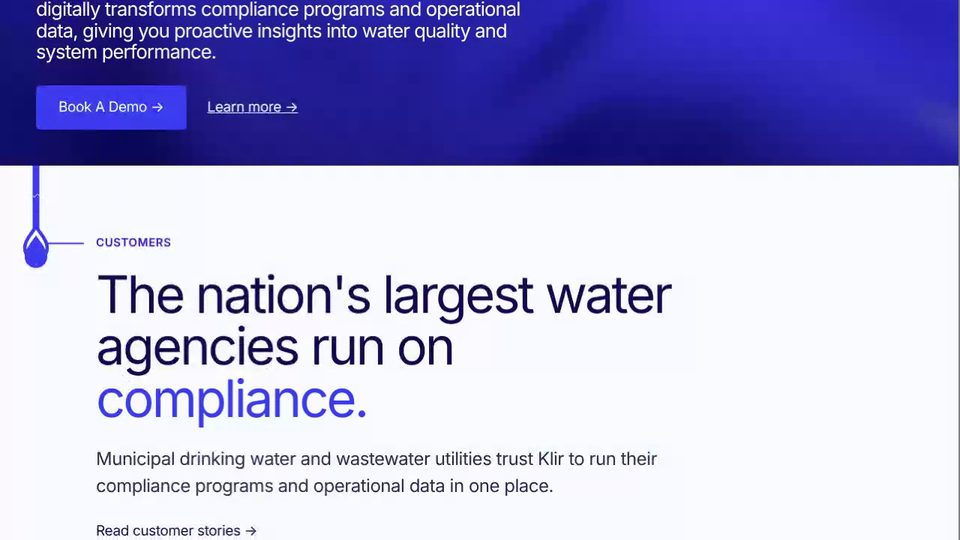
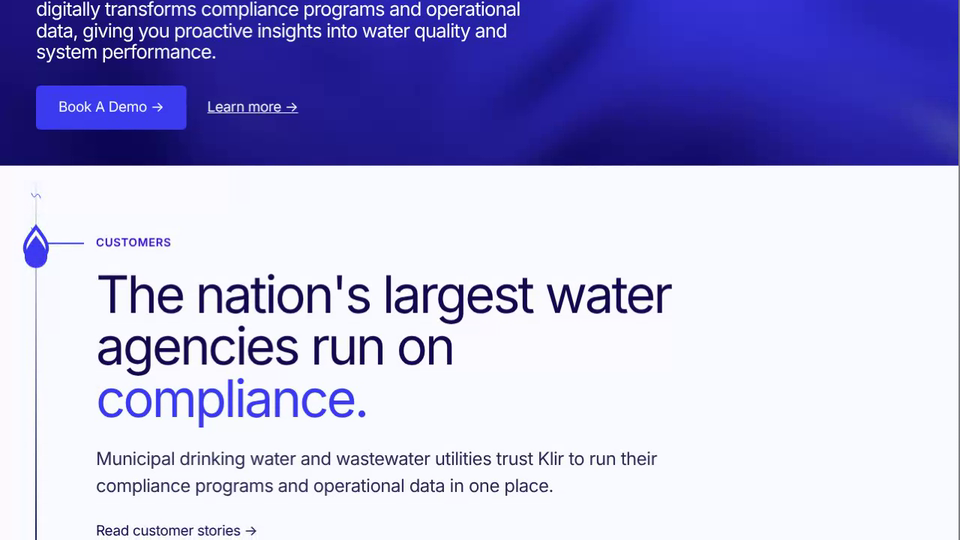
Klir Wayfinding: thin gradient wayfinding line with faded edges
Claude-Session: https://claude.ai/code/session_01AHeBdxxJMjuAF9w67sWwW5

Changed region(s): [[0.0312, 0.2963, 0.0625, 0.4444], [0.0625, 0.1778, 0.1562, 0.2074]]

diff --git a/klir-wayfinding/index.html b/klir-wayfinding/index.html
@@ -111,12 +111,14 @@ ul.ticks svg{flex:none;width:22px;height:22px;stroke:var(--indigo);fill:none;str
 <svg id="path" aria-hidden="true">
   <defs>
     <path id="drop" d="M0-15C6-7 10-2 10 4a10 10 0 0 1-20 0C-10-2-6-7 0-15Z"/>
-    <path id="curve" d="M-6-3Q-3 5 0 0T6 3" fill="none" stroke="#fff" stroke-width="1" stroke-linecap="round"/>
+    <path id="curve" d="M-6-3Q-3 5 0 0T6 3" fill="none" stroke="#3b3bef" stroke-width="1" stroke-linecap="round"/>
+    <linearGradient id="fade" gradientUnits="userSpaceOnUse" x1="0" x2="0"><stop offset="0" stop-color="#0f1f6b" stop-opacity="0"/><stop offset=".08" stop-color="#14237a"/><stop offset=".55" stop-color="#3b3bef"/><stop offset=".92" stop-color="#3b3bef" stop-opacity=".9"/><stop offset="1" stop-color="#3b3bef" stop-opacity="0"/></linearGradient>
     <clipPath id="clip"><rect id="clipR" x="0" y="0" width="40" height="0"/></clipPath>
     <clipPath id="cw"><rect id="cwR" x="0" y="0" width="200" height="0"/></clipPath>
     <clipPath id="cb"><rect id="cbR" x="0" y="0" width="200" height="0"/></clipPath>
   </defs>
-  <g clip-path="url(#clip)"><line id="solid" stroke="#3b3bef" stroke-width="9" stroke-linecap="round"/><g id="marks"></g></g>
+  <line id="solid" stroke="url(#fade)" stroke-width="2"/>
+  <g clip-path="url(#clip)"><g id="marks"></g></g>
   <g id="nodes"></g>
   <g id="head" opacity="0"><g clip-path="url(#cw)"><use id="dw" href="#drop" fill="#fff"/></g><g clip-path="url(#cb)"><use id="db" href="#drop" fill="#3b3bef"/></g></g>
 </svg>
@@ -176,7 +178,7 @@ function layout(){
   const m=wrap.getBoundingClientRect();H=wrap.offsetHeight;HB=document.querySelector('.hero').offsetHeight;
   X=parseFloat(getComputedStyle(document.documentElement).getPropertyValue('--gx'))||48;
   svg.setAttribute('height',H);
-  $('solid').setAttribute('x1',X);$('solid').setAttribute('x2',X);$('solid').setAttribute('y1',HB);
+  $('solid').setAttribute('x1',X);$('solid').setAttribute('x2',X);$('solid').setAttribute('y1',HB);$('solid').setAttribute('y2',H);const fg=$('fade');fg.setAttribute('y1',HB);fg.setAttribute('y2',H);
   $('marks').innerHTML='';for(let y=HB+40;y<H;y+=46){const u=document.createElementNS(NS,'use');u.setAttribute('href','#curve');u.setAttribute('transform',`translate(${X} ${y})`);$('marks').appendChild(u)}
   $('clipR').setAttribute('x',X-20);$('cwR').setAttribute('height',HB);$('cbR').setAttribute('y',HB);$('cbR').setAttribute('height',H-HB);
   nodes=[...document.querySelectorAll('.eyebrow.node')].map(e=>{const r=e.getBoundingClientRect();return{y:r.top-m.top+r.height/2}});
@@ -185,7 +187,7 @@ function layout(){
 }
 function tick(){
   const top=wrap.getBoundingClientRect().top,y=Math.max(HB*.35,Math.min(H-30,innerHeight*.5-top));
-  $('solid').setAttribute('y2',Math.max(HB,y));$('clipR').setAttribute('y',HB);$('clipR').setAttribute('height',Math.max(0,y-HB));
+  $('clipR').setAttribute('y',HB);$('clipR').setAttribute('height',Math.max(0,y-HB));
   const t=`translate(${X} ${y}) scale(1.5)`;$('dw').setAttribute('transform',t);$('db').setAttribute('transform',t);
   $('head').setAttribute('opacity',Math.min(1,Math.max(0,(-top)/160)));
 }
